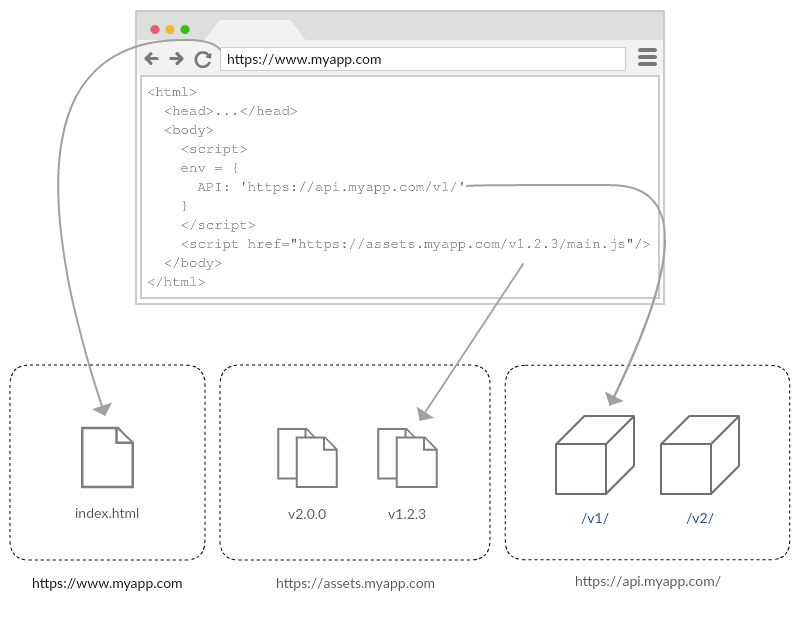
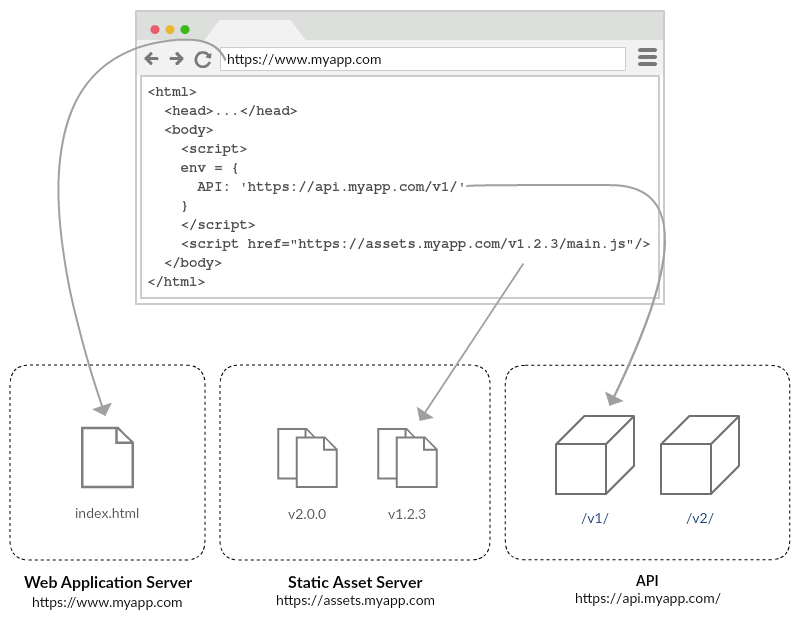
Update infrastructure image and content to support image

diff --git a/README.md b/README.md
@@ -168,11 +168,11 @@ A set of `index.html` files, one for each environment, hosted in a __Github__ re
 
 The infrastructure to support _Immutable Web Apps_ is composed of three parts:
 
-- A static web server to host the web application
-- A static web server to host the static assets
-- A content delivery network to optimize the delivery of the web application and static assets
+- __Web Application Server__: A static web server to host a web application environment by serving `index.html`.
+- __Static Asset Server__: A static web server to host the immutable static assets.
+- __API__: One or more publicly exposed endpoints to interact with the web application backend.
 
-The two web servers have different characteristics:
+The two static web servers have different behaviors:
 
 | | Web Application Server | Static Asset Server |
 | --- | --- | --- |
